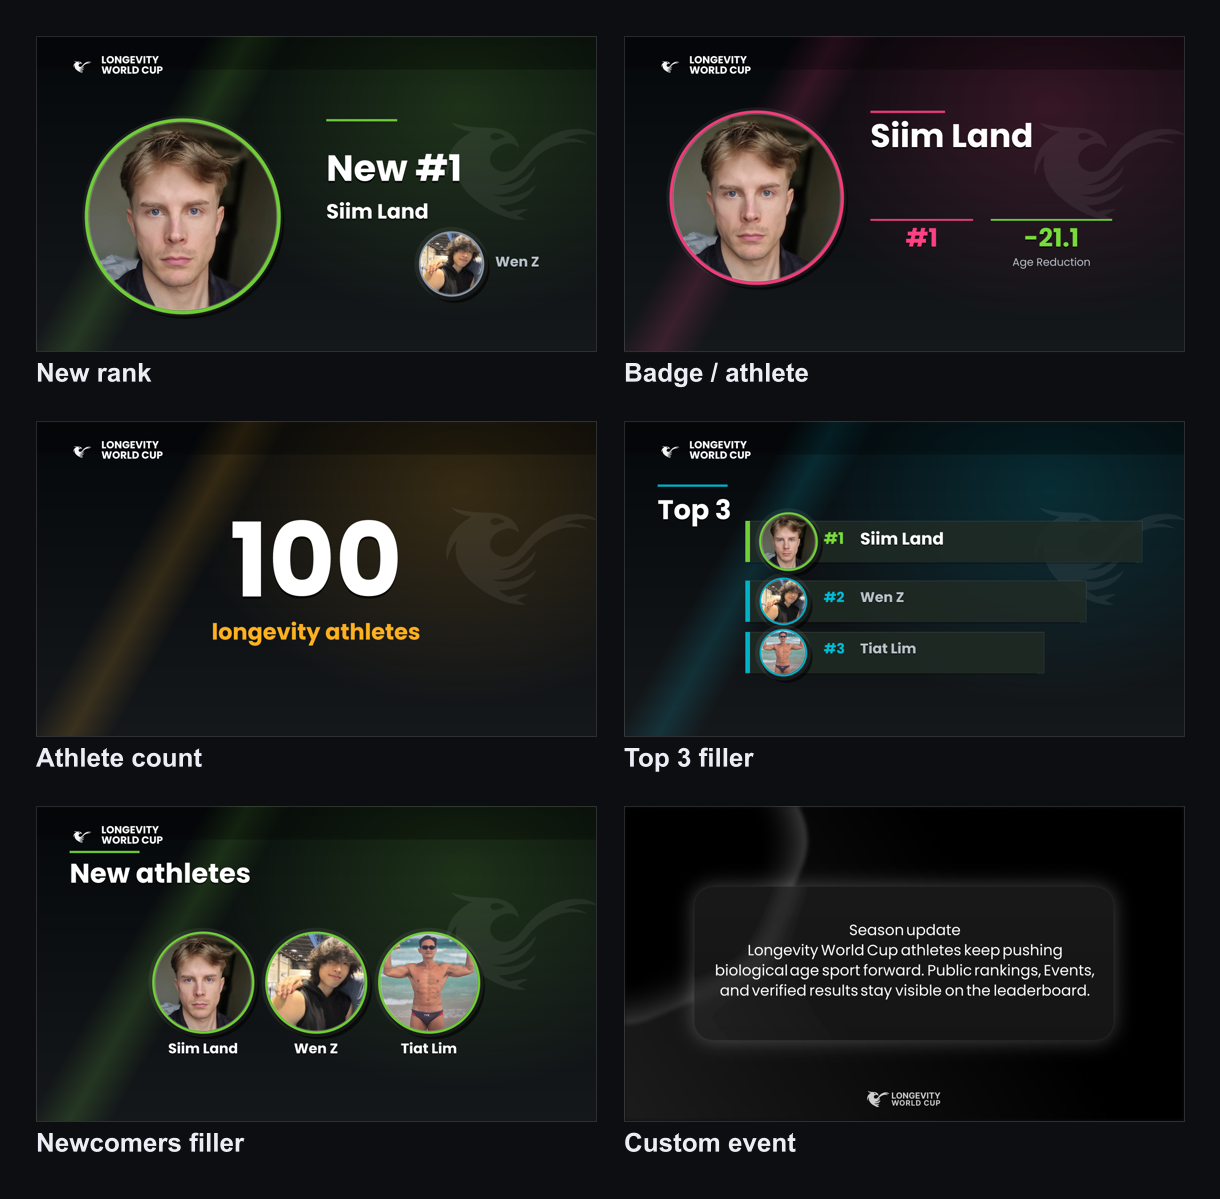
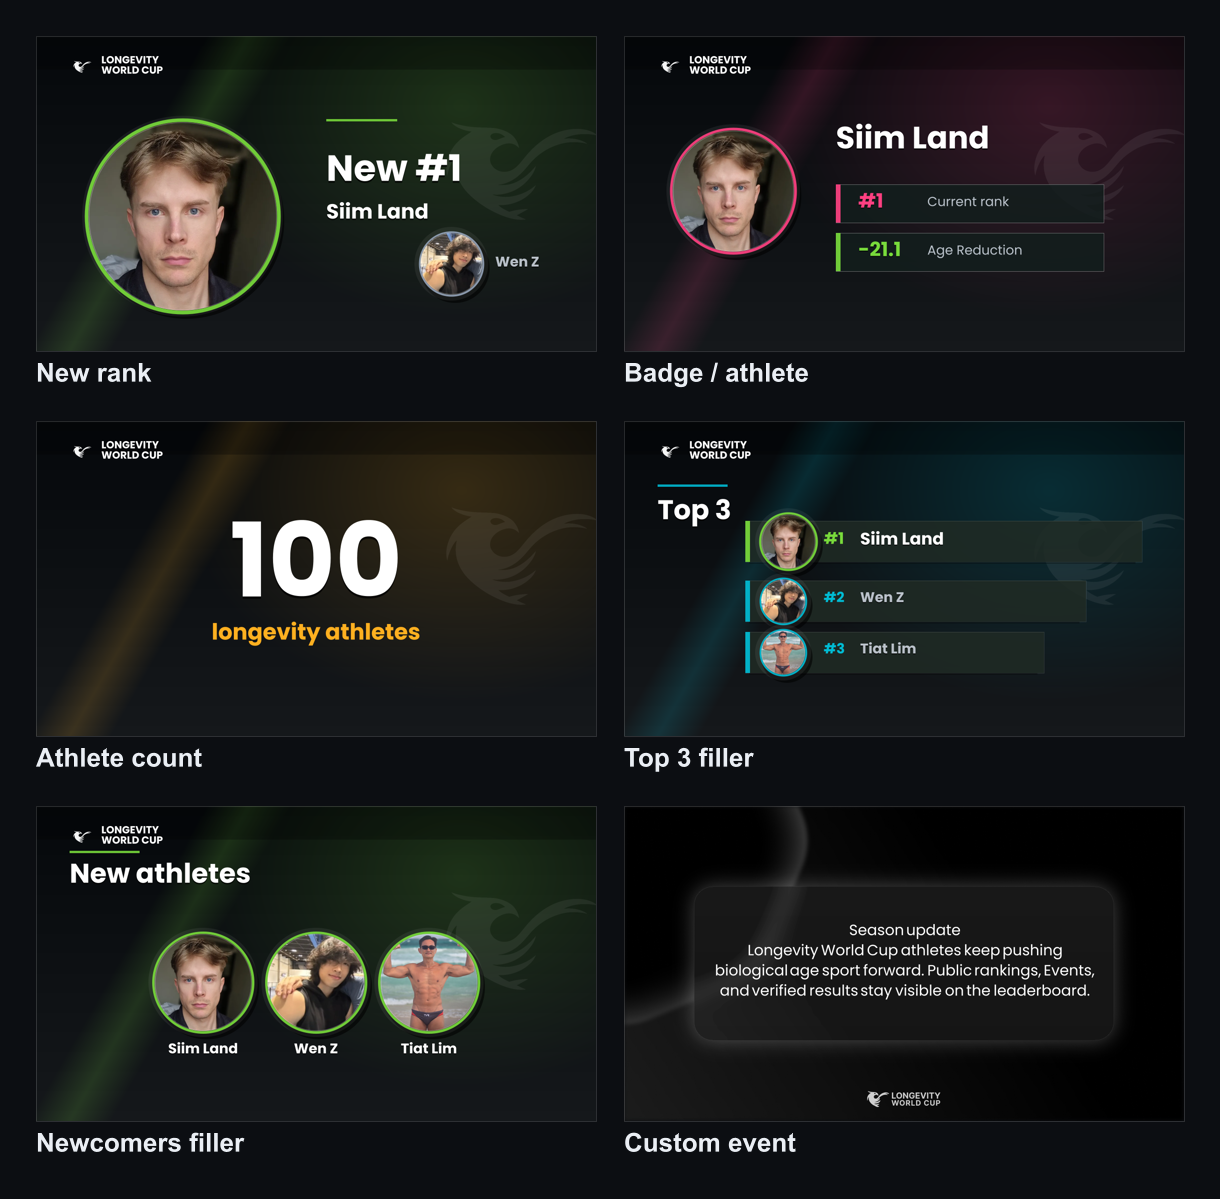
Polish badge social image

Changed region(s): [[0.5295, 0.0926, 0.9033, 0.2469]]

diff --git a/LongevityWorldCup.Website/Business/XImageService.cs b/LongevityWorldCup.Website/Business/XImageService.cs
@@ -141,19 +141,18 @@ public class XImageService
         var fonts = GetFontFamilies();
         await DrawBrandAsync(image, fonts.Bold);
 
-        await DrawPortraitAsync(image, athlete.ProfilePath, 104, 166, 360, PinkAccent, 7f);
+        await DrawPortraitAsync(image, athlete.ProfilePath, 104, 202, 260, PinkAccent, 6f);
 
         image.Mutate(ctx =>
         {
-            var titleFont = FitFontToWidth(fonts.Bold, athlete.Name, 70f, 44f, 560f);
-            var metricFont = fonts.Bold.CreateFont(54f, FontStyle.Bold);
-            var metricLabelFont = fonts.Regular.CreateFont(23f, FontStyle.Regular);
+            var titleFont = FitFontToWidth(fonts.Bold, athlete.Name, 66f, 42f, 620f);
+            var valueFont = fonts.Bold.CreateFont(42f, FontStyle.Bold);
+            var labelFont = fonts.Regular.CreateFont(28f, FontStyle.Regular);
 
-            ctx.Fill(new Rgba32(255, 64, 129, 220), new RectangularPolygon(528f, 160f, 160f, 5f));
-            DrawTextShadow(ctx, athlete.Name, titleFont, new PointF(528f, 182f), HorizontalAlignment.Left, 3f);
-            DrawWrappedText(ctx, athlete.Name, titleFont, TextColor, new PointF(528f, 182f), 560f, 2, 76f);
-            DrawMetricColumn(ctx, BuildRankValue(athlete), "", metricFont, metricLabelFont, PinkAccent, 638f, 392f, 220f);
-            DrawMetricColumn(ctx, BuildReductionValue(athlete), "Age Reduction", metricFont, metricLabelFont, GreenAccent, 916f, 392f, 260f);
+            DrawTextShadow(ctx, athlete.Name, titleFont, new PointF(454f, 188f), HorizontalAlignment.Left, 3f);
+            DrawWrappedText(ctx, athlete.Name, titleFont, TextColor, new PointF(454f, 188f), 620f, 1, 72f);
+            DrawScoreboardMetricRow(ctx, BuildRankValue(athlete), "Current rank", valueFont, labelFont, PinkAccent, 454f, 318f, 574f, 82f);
+            DrawScoreboardMetricRow(ctx, BuildReductionValue(athlete), "Age Reduction", valueFont, labelFont, GreenAccent, 454f, 422f, 574f, 82f);
         });
 
         return await SaveToStreamAsync(image);
@@ -408,35 +407,40 @@ public class XImageService
         }
     }
 
-    private static void DrawMetricColumn(
+    private static void DrawScoreboardMetricRow(
         IImageProcessingContext ctx,
         string value,
         string label,
         Font valueFont,
         Font labelFont,
         Color accent,
-        float centerX,
-        float topY,
-        float width)
+        float x,
+        float y,
+        float width,
+        float height)
     {
-        ctx.Fill(ToRgba(accent, 230), new RectangularPolygon(centerX - (width / 2f), topY, width, 4f));
-        DrawTextShadow(ctx, value, valueFont, new PointF(centerX, topY + 16f), HorizontalAlignment.Center, 3f);
-        ctx.DrawText(new RichTextOptions(valueFont)
+        ctx.Fill(new Rgba32(18, 29, 28, 218), new RectangularPolygon(x, y, width, height));
+        ctx.Draw(new Rgba32(255, 255, 255, 90), 1f, new RectangularPolygon(x, y, width, height));
+        ctx.Fill(ToRgba(accent, 235), new RectangularPolygon(x, y, 10f, height));
+
+        var valueFontToUse = value.Length > 4
+            ? FitFontToWidth(valueFont.Family, value, valueFont.Size, 24f, 140f)
+            : valueFont;
+
+        DrawTextShadow(ctx, value, valueFontToUse, new PointF(x + 48f, y + 16f), HorizontalAlignment.Left, 2f);
+        ctx.DrawText(new RichTextOptions(valueFontToUse)
         {
-            Origin = new PointF(centerX, topY + 16f),
-            HorizontalAlignment = HorizontalAlignment.Center,
+            Origin = new PointF(x + 48f, y + 16f),
+            HorizontalAlignment = HorizontalAlignment.Left,
             VerticalAlignment = VerticalAlignment.Top
         }, value, accent);
 
-        if (!string.IsNullOrWhiteSpace(label))
+        ctx.DrawText(new RichTextOptions(labelFont)
         {
-            ctx.DrawText(new RichTextOptions(labelFont)
-            {
-                Origin = new PointF(centerX, topY + 82f),
-                HorizontalAlignment = HorizontalAlignment.Center,
-                VerticalAlignment = VerticalAlignment.Top
-            }, label, MutedTextColor);
-        }
+            Origin = new PointF(x + 196f, y + 24f),
+            HorizontalAlignment = HorizontalAlignment.Left,
+            VerticalAlignment = VerticalAlignment.Top
+        }, label, MutedTextColor);
     }
 
     private static void DrawCenteredLabel(
